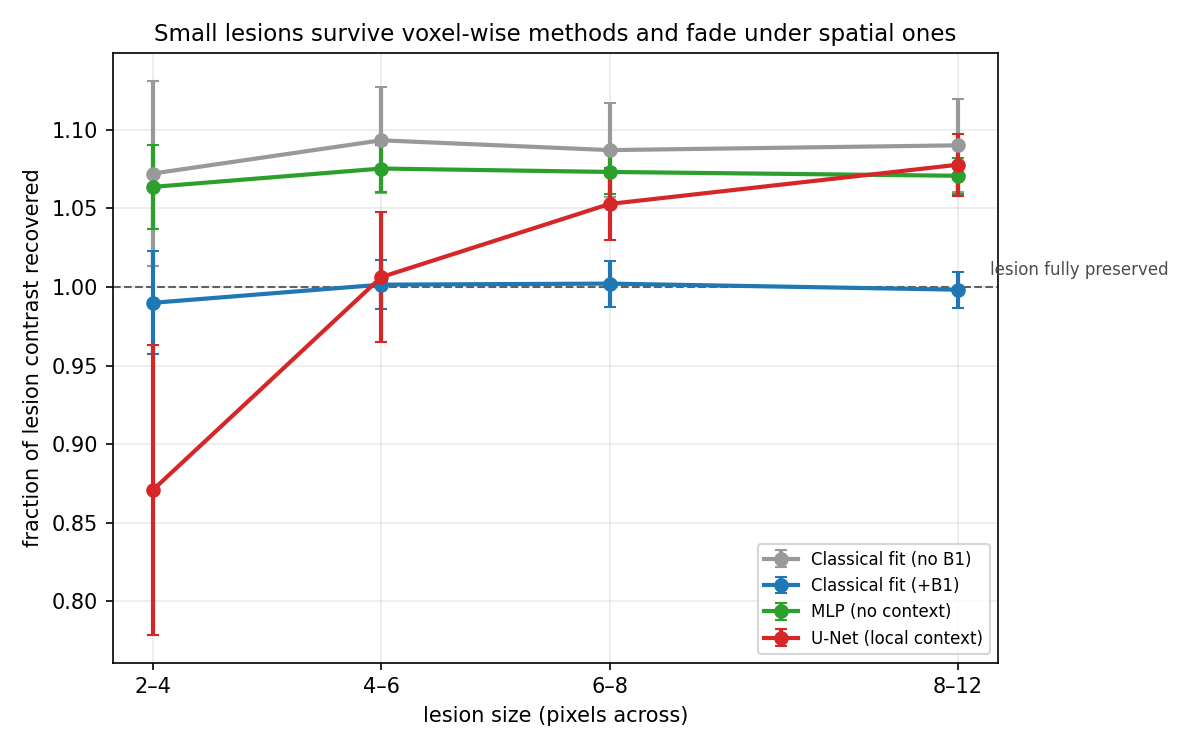
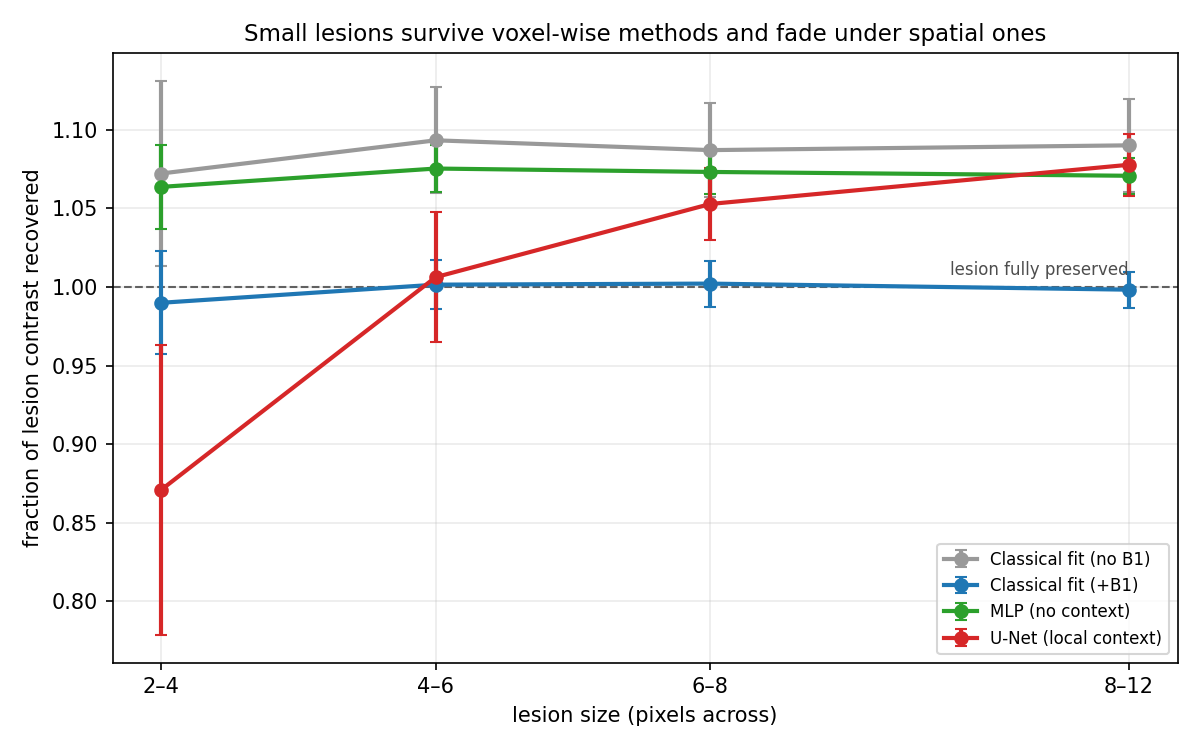
Show the MR images themselves, and BrainWeb anatomy
Every figure so far showed a T1 map or a graph. None showed the actual MR
images the method starts from, which left the project hard to explain to
anyone unfamiliar with it.

inputs_and_output.png puts the five measured grey images beside the colour
map computed from them. That one picture carries the whole idea: the grey
images are the measurement, the colour map is solved for from how brightness
changes across them, and it is the map that a method can get quietly wrong.

brainweb_slice.png runs the pipeline on the downloaded BrainWeb MS phantom:
real cortical folding, real ventricles, and lesions in the periventricular
distribution where MS lesions actually occur, instead of my ellipses and
discs. It also shows the scorable mask -- 66% of brain voxels are at least
95% one tissue; the other 34% are partial-volume mixtures with no single
true T1 and are excluded.

Both figures are in the README, the input one first, since a reader needs to
know what is being measured before any result means anything.

Rewrote make_figures.py rather than patching it: a heredoc had mangled the
escape sequences in the previous edit and left the file unparseable.

diff --git a/scripts/make_figures.py b/scripts/make_figures.py
@@ -10,10 +10,11 @@ having to download data or run a model.
 
 Figures are built from the cached test split, the cached classical fits and
 the saved model checkpoints, so this is quick and does not retrain anything.
-Any model that has not been trained yet is simply skipped.
+Any model that has not been trained yet is simply skipped, and the BrainWeb
+figure is skipped if that data has not been downloaded.
 
-The first figure is the project's headline and the one to show anybody who
-asks what this is about.
+``retention_vs_size.png`` is the project's headline and the one to show
+anybody who asks what this is about.
 """
 
 from __future__ import annotations
@@ -81,15 +82,15 @@ def load_methods(test_set: Dataset) -> dict[str, np.ndarray]:
         methods["MLP (no context)"] = scatter_to_maps(flat, table_mask)
 
     image_x, _, _ = to_image_tensors(test_set)
-    for path, label, builder in [
-        (OUTPUTS / "unet_d3.pt", "U-Net (local context)", UNet),
-        (OUTPUTS / "swin_d2.pt", "Swin (global context)", SwinUNet),
+    for path, label, kind in [
+        (OUTPUTS / "unet_d3.pt", "U-Net (local context)", "unet"),
+        (OUTPUTS / "swin_d2.pt", "Swin (global context)", "swin"),
     ]:
         if not path.exists():
             continue
         ck = torch.load(path, weights_only=False)
         cfg = ck["config"]
-        if builder is UNet:
+        if kind == "unet":
             model = UNet(
                 in_channels=image_x.shape[1],
                 base_channels=cfg["base_channels"],
@@ -116,17 +117,55 @@ def load_methods(test_set: Dataset) -> dict[str, np.ndarray]:
     return methods
 
 
+def figure_inputs(test_set) -> None:
+    """What the scanner hands you, and what is computed from it.
+
+    Worth showing first to anyone unfamiliar with the project: the five grey
+    pictures are the actual measurement, and the colour map is not measured
+    at all. It is solved for, pixel by pixel, from how brightness changes
+    across those five.
+    """
+    index = max(range(len(test_set)), key=lambda i: len(test_set.lesions_for(i)))
+    mask = test_set.mask[index]
+    angles = test_set.angles
+
+    n = len(angles) + 1
+    fig, axes = plt.subplots(1, n, figsize=(2.9 * n, 3.6))
+    for ax, angle, image in zip(axes, angles, test_set.images[index]):
+        ax.imshow(image, cmap="gray")
+        ax.set_title(f"measured\n{angle:.0f}° flip angle", fontsize=9)
+
+    cmap = plt.get_cmap("viridis").copy()
+    cmap.set_bad("0.12")
+    im = axes[-1].imshow(
+        np.where(mask, test_set.t1[index], np.nan), cmap=cmap, vmin=0, vmax=4200
+    )
+    axes[-1].set_title("computed\nT1 map (ms)", fontsize=9)
+    fig.colorbar(im, ax=axes[-1], fraction=0.046, pad=0.03)
+
+    for ax in axes:
+        ax.set_xticks([])
+        ax.set_yticks([])
+
+    fig.suptitle(
+        "The five grey images are the measurement. The colour map is solved "
+        "for from how brightness changes across them.",
+        fontsize=10,
+    )
+    fig.tight_layout()
+    fig.savefig(FIGURES / "inputs_and_output.png", dpi=150)
+    plt.close(fig)
+
+
 def figure_retention(methods, test_set) -> None:
     """The headline: how much of a lesion survives, against its size."""
     fig, ax = plt.subplots(figsize=(8, 5))
     edges = np.array([2.0, 4.0, 6.0, 8.0, 12.1])
     centres = (edges[:-1] + edges[1:]) / 2
 
-    ax.axhline(
-        1.0, color="0.3", ls="--", lw=1, zorder=0,
-    )
+    ax.axhline(1.0, color="0.3", ls="--", lw=1, zorder=0)
     ax.text(
-        11.9, 1.005, "lesion fully preserved", ha="right", va="bottom",
+        centres[-1], 1.005, "lesion fully preserved", ha="right", va="bottom",
         fontsize=8, color="0.3",
     )
 
@@ -170,12 +209,12 @@ def figure_the_trap(methods, test_set) -> None:
     x = np.arange(len(names))
     width = 0.38
     ax.bar(
-        x - width / 2, whole, width, label="whole image (the number usually quoted)",
-        color="#4c78a8",
+        x - width / 2, whole, width,
+        label="whole image (the number usually quoted)", color="#4c78a8",
     )
     ax.bar(
-        x + width / 2, lesion, width, label="lesions only (what a doctor needs)",
-        color="#e45756",
+        x + width / 2, lesion, width,
+        label="lesions only (what a doctor needs)", color="#e45756",
     )
     for i, (a, b) in enumerate(zip(whole, lesion)):
         ax.text(i - width / 2, a + 1, f"{a:.0f}", ha="center", fontsize=8)
@@ -204,8 +243,7 @@ def figure_maps(methods, test_set) -> None:
     panels = [("Ground truth", test_set.t1[index])]
     panels += [(name, estimate[index]) for name, estimate in methods.items()]
 
-    cols = len(panels)
-    fig, axes = plt.subplots(1, cols, figsize=(3.1 * cols, 3.8))
+    fig, axes = plt.subplots(1, len(panels), figsize=(3.1 * len(panels), 3.8))
     cmap = plt.get_cmap("viridis").copy()
     cmap.set_bad("0.12")
 
@@ -226,11 +264,84 @@ def figure_maps(methods, test_set) -> None:
         fig.colorbar(im, ax=ax, fraction=0.046, pad=0.03)
 
     fig.suptitle(
-        "T1 maps from the same five images. Circles mark lesions no model saw in training.",
+        "T1 maps from the same five images. "
+        "Circles mark lesions no model saw in training.",
         fontsize=10,
     )
     fig.tight_layout()
     fig.savefig(FIGURES / "t1_maps.png", dpi=150)
+    plt.close(fig)
+
+
+def figure_brainweb() -> None:
+    """Real anatomy from BrainWeb, if it has been downloaded.
+
+    Skipped silently when the data is absent, since it is gitignored and a
+    fresh clone will not have it.
+    """
+    from qmri.brainweb import (
+        BRAINWEB_TISSUES,
+        DEFAULT_PATTERN,
+        FuzzyPhantom,
+        load_raw_volume,
+        mixed_signal,
+        purity_mask,
+        true_t1_map,
+    )
+
+    directory = DATA / "brainweb"
+    volumes, tissues = [], []
+    for key, tissue in BRAINWEB_TISSUES.items():
+        path = directory / DEFAULT_PATTERN.format(key=key)
+        if not path.exists():
+            return
+        volumes.append(load_raw_volume(path))
+        tissues.append(tissue)
+
+    stack = np.stack(volumes)
+    best = int(np.argmax((stack[3] > 0.5).sum(axis=(1, 2))))
+    phantom = FuzzyPhantom(stack[:, best], tuple(tissues))
+
+    images = mixed_signal(phantom, [2.0, 5.0, 10.0, 15.0, 20.0], 15.0)
+    brain = phantom.total > 0.5
+    pure = purity_mask(phantom, 0.95)
+    truth = np.where(brain, true_t1_map(phantom), np.nan)
+    lesion = phantom.fractions[3]
+
+    fig, axes = plt.subplots(1, 4, figsize=(14, 4))
+    cmap = plt.get_cmap("viridis").copy()
+    cmap.set_bad("0.12")
+
+    axes[0].imshow(images[2], cmap="gray")
+    axes[0].set_title("simulated scan, 10° flip angle", fontsize=9)
+
+    im = axes[1].imshow(truth, cmap=cmap, vmin=0, vmax=4200)
+    axes[1].set_title("true T1 (ms)", fontsize=9)
+    fig.colorbar(im, ax=axes[1], fraction=0.046, pad=0.03)
+
+    axes[2].imshow(lesion, cmap="magma", vmin=0, vmax=1)
+    axes[2].set_title(
+        f"MS lesions ({int((lesion > 0.5).sum())} voxels)", fontsize=9
+    )
+
+    axes[3].imshow(np.where(brain, pure, np.nan), cmap="RdYlGn", vmin=0, vmax=1)
+    axes[3].set_title(
+        f"scorable voxels: {100 * pure[brain].mean():.0f}%\n"
+        "(red = partial volume, excluded)",
+        fontsize=9,
+    )
+
+    for ax in axes:
+        ax.set_xticks([])
+        ax.set_yticks([])
+
+    fig.suptitle(
+        f"BrainWeb MS phantom, axial slice {best} — real anatomy, "
+        "real lesion shapes, simulated signal",
+        fontsize=10,
+    )
+    fig.tight_layout()
+    fig.savefig(FIGURES / "brainweb_slice.png", dpi=150)
     plt.close(fig)
 
 
@@ -251,9 +362,11 @@ def main() -> int:
     for name in methods:
         print(f"  - {name}")
 
+    figure_inputs(test_set)
     figure_retention(methods, test_set)
     figure_the_trap(methods, test_set)
     figure_maps(methods, test_set)
+    figure_brainweb()
 
     print()
     for path in sorted(FIGURES.glob("*.png")):

diff --git a/README.md b/README.md
@@ -16,6 +16,33 @@ still report a lower overall error when it does.
 This repository measures that trade-off on simulated data, where the true T1
 is known exactly.
 
+## What the data looks like
+
+![Five measured images and the T1 map computed from them](figures/inputs_and_output.png)
+
+The five grey pictures are the measurement — ordinary MR images, each taken
+with a different flip angle. The colour map is not measured at all. It is
+solved for, pixel by pixel, from the way brightness changes across those
+five. That map is the thing this project is about, and the thing a method
+can get quietly wrong.
+
+These particular images are simulated, which is the point: on a real scanner
+nobody knows the true T1, so there is nothing to score an estimate against.
+
+Anatomy can still be real. The same pipeline runs on the
+[BrainWeb](https://brainweb.bic.mni.mcgill.ca/) MS phantom from the Montreal
+Neurological Institute, which supplies real brain structure and real multiple
+sclerosis lesion shapes:
+
+![BrainWeb MS phantom slice](figures/brainweb_slice.png)
+
+BrainWeb gives tissue *fractions* rather than labels, so a voxel on a
+boundary is genuinely part white matter and part CSF. Signals from each
+tissue are mixed by volume fraction — T1 values cannot simply be averaged,
+because signal is not linear in T1. A mixed voxel has no single true T1, so
+only the 66% of voxels that are at least 95% one tissue are scored, and the
+rest are excluded and reported as excluded.
+
 ## The answer, in two figures
 
 ![Lesion contrast recovered, against lesion size](figures/retention_vs_size.png)
